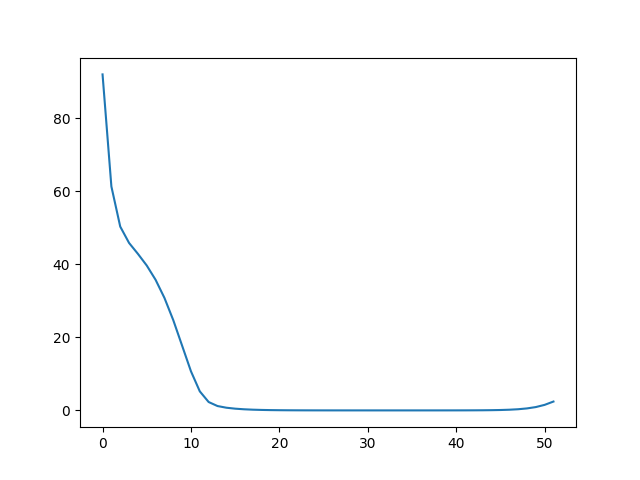
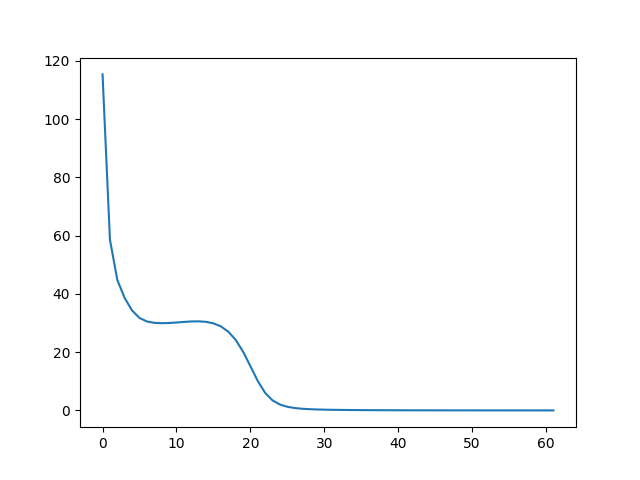
optimizations, bug fixes

diff --git a/ode_sat.py b/ode_sat.py
@@ -2,7 +2,7 @@ import numpy as np
 from scipy.integrate import odeint
 from matplotlib import pyplot as plt
 
-np.random.seed(0)
+np.random.s
 
 
 class OdeSat:
@@ -18,6 +18,7 @@ class OdeSat:
                 self.c[clause_index][abs(variable) - 1] = 1 if variable > 0 else -1
 
         # print(self.c)
+        self.cT = self.c.T
 
         # self.c = np.array([
         #     [1, 1, -1],
@@ -33,70 +34,78 @@ class OdeSat:
 
         print(f"M: {self.M}, I: {self.I}")
 
-        self.initial_s = np.random.uniform(-1, 1, self.I)
+        self.initial_s = rng.uniform(-1, 1, self.I)
         self.initial_a = self.time * np.ones(self.M)
         self.initial = np.concatenate((self.initial_s, self.initial_a))
+        print("initial:", np.max(self.initial))
 
-    def K(self, s, a, m, i=None):
-        c_vals = np.array(self.c)[m]
-        if i is not None:
-            c_vals[i] = 0
-        out = np.prod(1 - c_vals * s)
-        return out
+    def K(self, s, m):
+        return np.prod(1 - self.c[m] * s)
+
+    # def Ki(self, K_vals, s, m, i):
+    #     return K_vals[m] / (1 - self.c[m, i] * s[i])
 
     def V(self, s, a):
-        K_vals = np.array([self.K(s, a, m) for m in range(self.M)])
+        K_vals = np.array([self.K(s, m) for m in range(self.M)])
         return a @ (K_vals**2)
 
-    def ds_i(self, s, a, i):
-        c_vals = np.array(self.c)[:, i]
-        K_vals_without_i = np.array([self.K(s, a, m) for m in range(self.M)])
-        K_vals_with_i = np.array([self.K(s, a, m, i) for m in range(self.M)])
-        return np.sum(2 * a * c_vals * K_vals_with_i * K_vals_without_i)
+    # def ds_i(self, s, a, i, K_vals):
+    #     c_vals = self.c[:, i]
+    #     denominator = 1 - (c_vals * s[i])
+    #     Ki_vals = K_vals / denominator
+    #     return 2 * a @ (c_vals * Ki_vals * K_vals)
 
-    def da_m(self, s, a, m):
-        return a[m] * self.K(s, a, m)
+    # def da_m(self, K_vals, a, m):
+    #     return a[m] * K_vals[m]
+
+    def da(self, a, K_vals):
+        return a * K_vals
+
+    def ds(self, s, a, K_vals):
+        s_broadcasted = s[:, np.newaxis]
+        denominator = 1 - (self.cT * s_broadcasted)
+        Ki_vals = K_vals / denominator
+        intermediate_result = self.cT * Ki_vals * K_vals
+        result = 2 * np.sum(a * intermediate_result, axis=1)
+        return result
 
     def derivative(self, state):
         # print(f"t: {t}")
         s, a = state[: self.I], state[self.I :]
-        ds = np.array([self.ds_i(s, a, i) for i in range(len(s))])
-        da = np.array([self.da_m(s, a, m) for m in range(len(a))])
+        K_vals = np.array([self.K(s, m) for m in range(self.M)])
+        ds = self.ds(s, a, K_vals)
+        da = self.da(a, K_vals)
 
-        d = np.concatenate((ds, da))
-        return d
+        return np.concatenate((ds, da))
 
     def integrate(self):
-        try:
-            t = np.linspace(0, self.time, self.resolution)
+        t = np.linspace(0, self.time, self.resolution)
 
-            # ODE Int
-            # timeseries = odeint(self.derivative, self.initial, t)
+        # ODE Int
+        # timeseries = odeint(self.derivative, self.initial, t)
 
-            # Euler
-            dt = t[1] - t[0]
-            timeseries = np.empty((len(t), len(self.initial)))
-            timeseries[0] = self.initial
-            # print("t shape", timeseries.shape)
-            for i in range(1, len(t)):
-                timeseries[i] = timeseries[i - 1] + dt * self.derivative(
-                    timeseries[i - 1]
-                )
+        # Euler
+        dt = t[1] - t[0]
+        timeseries = np.empty((len(t), len(self.initial)))
+        timeseries[0] = self.initial
+        print("initial", self.initial)
+        # print("t shape", timeseries.shape)
+        for i in range(1, len(t)):
+            timeseries[i] = timeseries[i - 1] + dt * self.derivative(timeseries[i - 1])
 
-                if np.isnan(timeseries).any() or np.any(
-                    (timeseries < -1.5) | (timeseries > 1.5)
-                ):
-                    # print("stiff")
-                    print(np.isnan(timeseries).any())
-                    raise Exception(f"Stiff ODE. Step size is too large.")
+            sTs = timeseries[i, : self.I]
 
-            sTs = timeseries[:, : self.I]
-            aTs = timeseries[:, self.I :]
+            if np.isnan(sTs).any() or np.any((sTs < -1.2) | (sTs > 1.2)):
+                # print("stiff")
+                print(np.isnan(sTs).any())
+                print("i:", i)
+                print(np.nanmax(sTs, 0))
+                raise Exception(f"Stiff ODE. Step size is too large.")
 
-            return sTs, aTs
-        except Exception as e:
-            print("exception occurred", e)
-            raise
+        sTs = timeseries[:, : self.I]
+        aTs = timeseries[:, self.I :]
+
+        return sTs, aTs
 
     def run(self):
         timeseries = self.integrate()
@@ -104,14 +113,16 @@ class OdeSat:
 
 
 def test_stiffness(clauses, time_limit=1):
+    global rng
     res = 10
     while res < 10000000:
         print(res)
         try:
-            np.random.seed(0)
+            rng = np.random.default_rng(0)
             ode = OdeSat(clauses=clauses, resolution=res, time=time_limit)
             ts = ode.integrate()
-        except:
+        except Exception as e:
+            print("NEXT")
             res = int(res * 1.2)
             continue
         print("FOUND WORKING RES:", res)
@@ -128,7 +139,7 @@ if __name__ == "__main__":
     res = test_stiffness(f1.clauses)
     print("resolution", res)
 
-    np.random.seed(0)
+    rng = np.random.default_rng(0)
     ode_sat = OdeSat(clauses=f1.clauses, resolution=res, time=1)
     sTs, aTs = ode_sat.integrate()
 
@@ -136,7 +147,7 @@ if __name__ == "__main__":
     last = sTs[-1]
     print(last.tolist())
     print([index + 1 if value > 0 else -index - 1 for index, value in enumerate(last)])
-    print("Final resolution:", res)
+    # print("Final resolution:", res)
     plt.plot(sTs)
     plt.ylim(-1.1, 1.1)
     plt.legend(np.arange(ode_sat.I) + 1)
